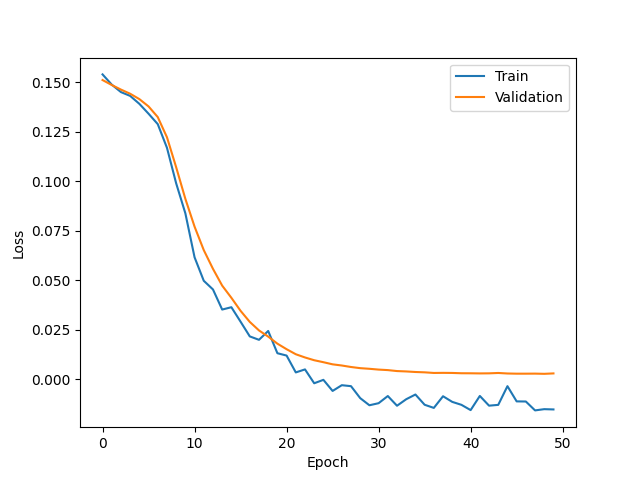
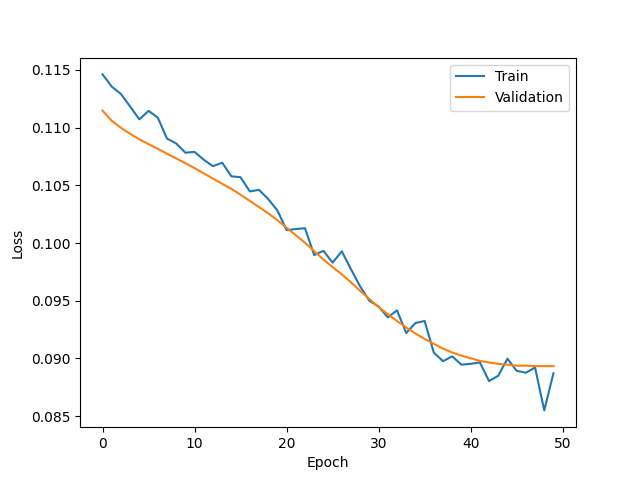
fix

diff --git a/src/model/tpmsl_lgbm.py b/src/model/tpmsl_lgbm.py
@@ -36,18 +36,18 @@ def get_roi_tpmsl(
     rmse_tau_r = np.sqrt(np.mean((test_dataset["true_tau_r"] - tau_r) ** 2))
     rmse_tau_c = np.sqrt(np.mean((test_dataset["true_tau_c"] - tau_c) ** 2))
     # AUCを計算
-    auc_mu_r_0 = roc_auc_score(
-        np.round(np.clip(test_dataset["true_mu_r_0"], 0, 1)), mu_r_0
-    )
-    auc_mu_r_1 = roc_auc_score(
-        np.round(np.clip(test_dataset["true_mu_r_1"], 0, 1)), mu_r_1
-    )
-    auc_mu_c_0 = roc_auc_score(
-        np.round(np.clip(test_dataset["true_mu_c_0"], 0, 1)), mu_c_0
-    )
-    auc_mu_c_1 = roc_auc_score(
-        np.round(np.clip(test_dataset["true_mu_c_1"], 0, 1)), mu_c_1
-    )
+    # auc_mu_r_0 = roc_auc_score(
+    #     np.round(np.clip(test_dataset["true_mu_r_0"], 0, 1)), mu_r_0
+    # )
+    # auc_mu_r_1 = roc_auc_score(
+    #     np.round(np.clip(test_dataset["true_mu_r_1"], 0, 1)), mu_r_1
+    # )
+    # auc_mu_c_0 = roc_auc_score(
+    #     np.round(np.clip(test_dataset["true_mu_c_0"], 0, 1)), mu_c_0
+    # )
+    # auc_mu_c_1 = roc_auc_score(
+    #     np.round(np.clip(test_dataset["true_mu_c_1"], 0, 1)), mu_c_1
+    # )
 
     roi_tpmsl = tau_r / tau_c
     scaler = MinMaxScaler()

diff --git a/src/make_data.py b/src/make_data.py
@@ -104,7 +104,7 @@ class DatasetGenerator:
         np.random.seed(self.seed)
         std = self.ps_delta * np.sqrt(np.pi / 2)
         T_prob = sigmoid(
-            (np.sum(features, axis=1) - 2.0) / 1
+            (np.dot(features, np.array([1.5, 1.0, 0.5, 0.8])) - 2.0) / 1
             + np.random.normal(0, std, size=len(features))
         )
         T_prob = T_prob.clip(0.01, 0.99)
@@ -184,7 +184,7 @@ class DatasetGenerator:
         baseline_effect, interaction_effect = self.visit_effect(features)
         std = self.delta * np.sqrt(np.pi / 2)
         noise = np.random.normal(0, std, size=len(features))
-        a = 2.0
+        a = 3.0
         if self.train_flg:
             treatment_effect = T * interaction_effect
             prob_visit = np.clip(
@@ -279,7 +279,7 @@ class DatasetGenerator:
         baseline_effect, interaction_effect = self.conversion_effect(features)
         std = self.delta * np.sqrt(np.pi / 2)
         noise = np.random.normal(0, std, size=len(features))
-        a = 2.0
+        a = 4.0
         if self.train_flg:
             treatment_effect = T * interaction_effect
             prob_purchase = np.clip(

diff --git a/main.py b/main.py
@@ -15,16 +15,16 @@ def main(predict_ps: bool, validate: bool) -> None:
     test_samples = 100_000
     n_features = 4
     delta = 0.0
-    ps_delta = 0.0
-    rct_ratio = 0.05
-    batch_size = 16
+    ps_delta = 0.1
+    rct_ratio = 0.15
+    batch_size = 8
     weight_decay = 1e-2
     model_name = "Direct"
     model_params = {"input_dim": n_features}
-    method = "Direct_only_RCT"
+    method = "DR"
     only_rct = True if method == "Direct_only_RCT" else False
-    num_epochs_list = [50, 100]
-    lr_list = [0.0001, 0.001]
+    num_epochs_list = [50, 50]
+    lr_list = [0.0001, 0.0001]
     dataset = DatasetGenerator(
         n_samples,
         n_features,
@@ -48,15 +48,6 @@ def main(predict_ps: bool, validate: bool) -> None:
         model_name=model_name,
         batch_size=batch_size,
         method=None,
-    )
-    test_dataset = val_dataset
-    test_dl = make_loader(
-        test_dataset,
-        model_name=model_name,
-        batch_size=batch_size,
-        train_flg=False,
-        method="Direct",
-        seed=seed,
     )
     if not validate:
         if only_rct:
